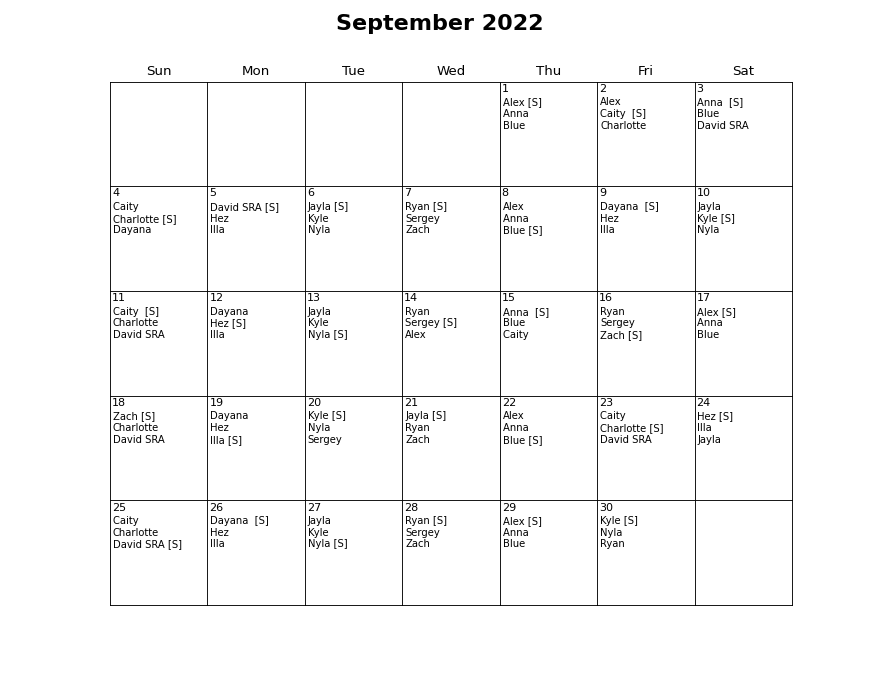
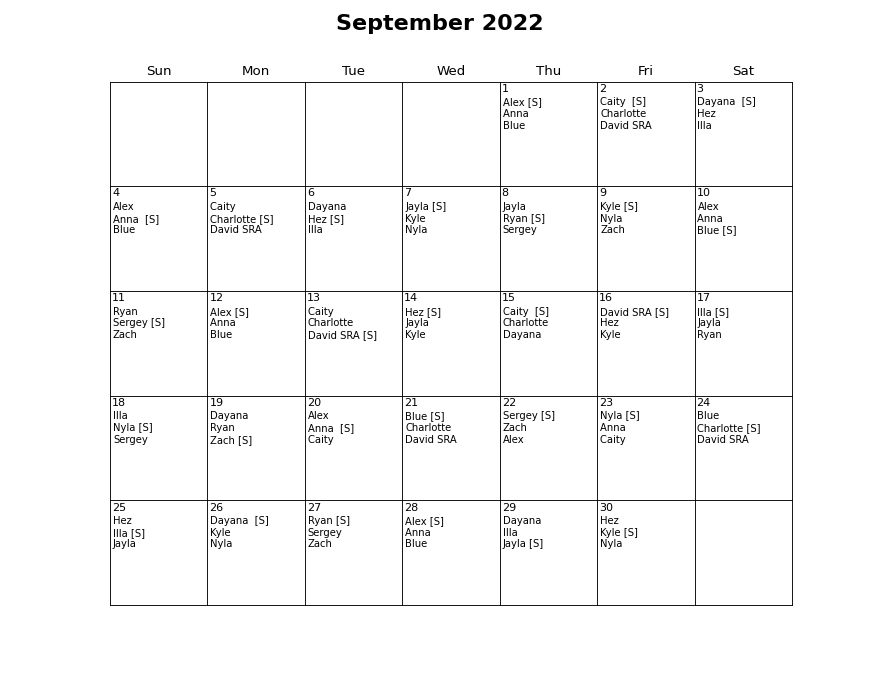
Instructions updates and image updates

diff --git a/main.py b/main.py
@@ -1,4 +1,4 @@
-# Duty Scheduler
+# RWBSL Duty Scheduler
 # Copyright (c) 2022, David Peterson
 #
 # All rights reserved.
@@ -17,8 +17,8 @@ import staffMember
 # set global variables
 # constants
 YEAR = datetime.today().year  # current year
-WEEKDAYS = ['Sunday', 'Monday', 'Tuesday', 'Wednesday', 'Thursday']  # list of weekdays
-WEEKENDS = ['Friday', 'Saturday']  # list of weekends
+WEEKDAYS = ['Sunday', 'Monday', 'Tuesday', 'Wednesday']  # list of weekdays
+WEEKENDS = ['Thursday', 'Friday', 'Saturday']  # list of weekends
 NUM_DAYS_YEAR = 365  # number of days in a year
 
 # determine if scheduling for the current month or for the next month

diff --git a/staffMember.py b/staffMember.py
@@ -1,4 +1,4 @@
-# Duty Scheduler
+# RWBSL Duty Scheduler
 # Copyright (c) 2022, David Peterson
 #
 # All rights reserved.

diff --git a/README.md b/README.md
@@ -21,6 +21,8 @@ If you experience any bugs/errors or would like to suggest an improvement, pleas
 ## Set-Up
 You only have to do these steps for a first-time set-up.
 
+If you have downloaded a zip file of this program, extract the zip file in C:/Users/[your username] and perform Step 1 (skip Steps 2-6).
+
 **Install Python**
 1) If you do not have a version of Python installed on your computer, download it here: https://www.python.org/downloads/
 2) Once Python is downloaded, go here: https://github.com/dpetersonVT23/Duty-Scheduler
@@ -28,7 +30,7 @@ You only have to do these steps for a first-time set-up.
 4) Open Command Prompt (hit Windows Start Button and search for Command Prompt)
 5) On the Command Prompt, execute the command: git clone <link copied in step 3>
 6) On the Command Prompt, execute the command: pwd
-- This is where the duty scheduler will be saved, it is typically /c/Users/\<your username\>, remember this for future steps.
+- This is where the duty scheduler will be saved, it is typically C:/Users/[your username], remember this for future steps.
 
 **Installing Packages**  
 This program needs support from external libraries to function correctly. On the Command Prompt, execute the following commands:
@@ -51,20 +53,20 @@ You will be able to export data from the Google form responses to be used as the
 2) Ensure the column header for the days the individual is not available is "Days"
 3) Ensure the name of the Availability Excel file is "monthName_buildingCommunityCode.xlsx" - (The building code is ultimately up to you, just remember how you name the file for when you run the program as you will be prompted for the building code in the terminal - see existing examples in the Availability directory - ensure the month name is LOWERCASE and the building/community code is UPPERCASE)
 
-Locate where in your file explorer saved the duty scheduler. Open the Duty-Scheduler folder. Here you will see an Availability folder and a History folder, this is where you will place your Excel files that manage availability for individuals and cumulative weekdays/weekends worked.
+Locate where in your file explorer saved the duty scheduler. Open the Duty-Scheduler folder. Here you will see an Availability folder and a History folder, this is where you will place your Excel files that manage availability for individuals and cumulative weekdays/weekends/sitters worked.
 
-Save the Availability Excel file here. Now it is time to set up the History Excel file. The purpose of this file is to automatically track how many weekdays/weekends each individual on your staff works so that it can be most accurately balanced over the course of the semester. Please reference the image below to set-up your History Excel file (you only have to do this once as this file updates automatically every time the program is run). If you are starting mid-semester with this program, instead of filling in both columns with all zeros, you can fill in the current amount of weekdays/weekends worked for each of your staff so the program can best balance duty scheduling for your staff for the remainder of the semester. Please name the column headers exactly how they appear in the image below for the program to work correctly. Also, please ensure the name of the History Excel file is "buildingCommunityCode_hist.xlsx", where the building/community code is UPPERCASE.  
+Save the Availability Excel file here. Now it is time to set up the History Excel file. The purpose of this file is to automatically track how many weekdays/weekends/sitters each individual on your staff works so that it can be most accurately balanced over the course of the semester. Please reference the image below to set-up your History Excel file (you only have to do this once as this file updates automatically every time the program is run). If you are starting mid-semester with this program, instead of filling in both columns with all zeros, you can fill in the current amount of weekdays/weekends/sitters worked for each of your staff so the program can best balance duty scheduling for your staff for the remainder of the semester. Please name the column headers exactly how they appear in the image below for the program to work correctly. Also, please ensure the name of the History Excel file is "buildingCommunityCode_hist.xlsx", where the building/community code is UPPERCASE.  
 
-ENSURE THE NAMES FROM THE AVAILABILITY EXCEL FILE MATCH THE NAMES FROM THE HISTORY EXCEL FILE!!!
+**ENSURE THE NAMES FROM THE AVAILABILITY EXCEL FILE MATCH THE NAMES FROM THE HISTORY EXCEL FILE, IN THE SAME ORDER (i.e., ALPHABETICAL)!!!**
 
-![](images/excel_history.png)
+![](images/excel_history_rwbsl.png)
 
 ## Running the Program
 Now to run the program! Open the command prompt and run the command "cd Duty-Scheduler", then run the command "python main.py", fill in the prompts in the terminal accordingly, and your Calendar will pop-up and automatically be saved to the Schedule folder for you to access and share with your staff! In addition, your History Excel file will be updated with a running sum of worked weekdays/weekends automatically and will use these values to appropiately assign a balanced duty schedule over the course of the semester/year.
 
 **IMPORTANT NOTE:** The program will automatically save the calendar and update the History Excel file.
 
-**Run Output:** You will see a series of outputs after you run the program providing you additional information about your newly generated Duty Calendar. From top to bottom, you will find a list of the staff members on duty each day (Staff Member Scheduled Dates), the cumulative number of weekdays/weekends each staff member has been scheduled at that point in the semester (Staff Member Weekday/Weekend Counts), the number of unique staff members each staff member is partnered up with on duty (along with who specifically these unique staff members are) (Staff Member Partnerships), and the number of days the staff member submitted that they were available for a given month (Staff Member Availability)!
+**Run Output:** You will see a series of outputs after you run the program providing you additional information about your newly generated Duty Calendar. From top to bottom, you will find a list of the staff members on duty each day (Staff Member Scheduled Dates), the cumulative number of weekdays/weekends/sitters each staff member has been scheduled at that point in the semester (Staff Member Weekday/Weekend Counts), and the number of days the staff member submitted that they were available for a given month (Staff Member Availability)!
 
 # Advanced Tips
 
@@ -73,4 +75,4 @@ If you get a warning that looks like this in the "Run" tab at the bottom of the 
 
 NOT ENOUGH CANDIDATES FOR JULY 22 (WEEKDAY) - Currently have 1 candidate(s) | Candidates: [nameOfCurrentCandidates]
 
-This means that on July 22nd, only 1 of your staff members has noted that they are available for duty but you might need atleast 2 to be available. Reach out and find someone else who is willing to fill in and be the second staff member on duty for that day!
+This means that on July 22nd, only 1 of your staff members has noted that they are available for duty but you might need atleast 2 to be available. Reach out and find someone else who is willing to fill in and be the second staff member on duty for that day! Remember, no staff member can be scheduled two days in a row!
